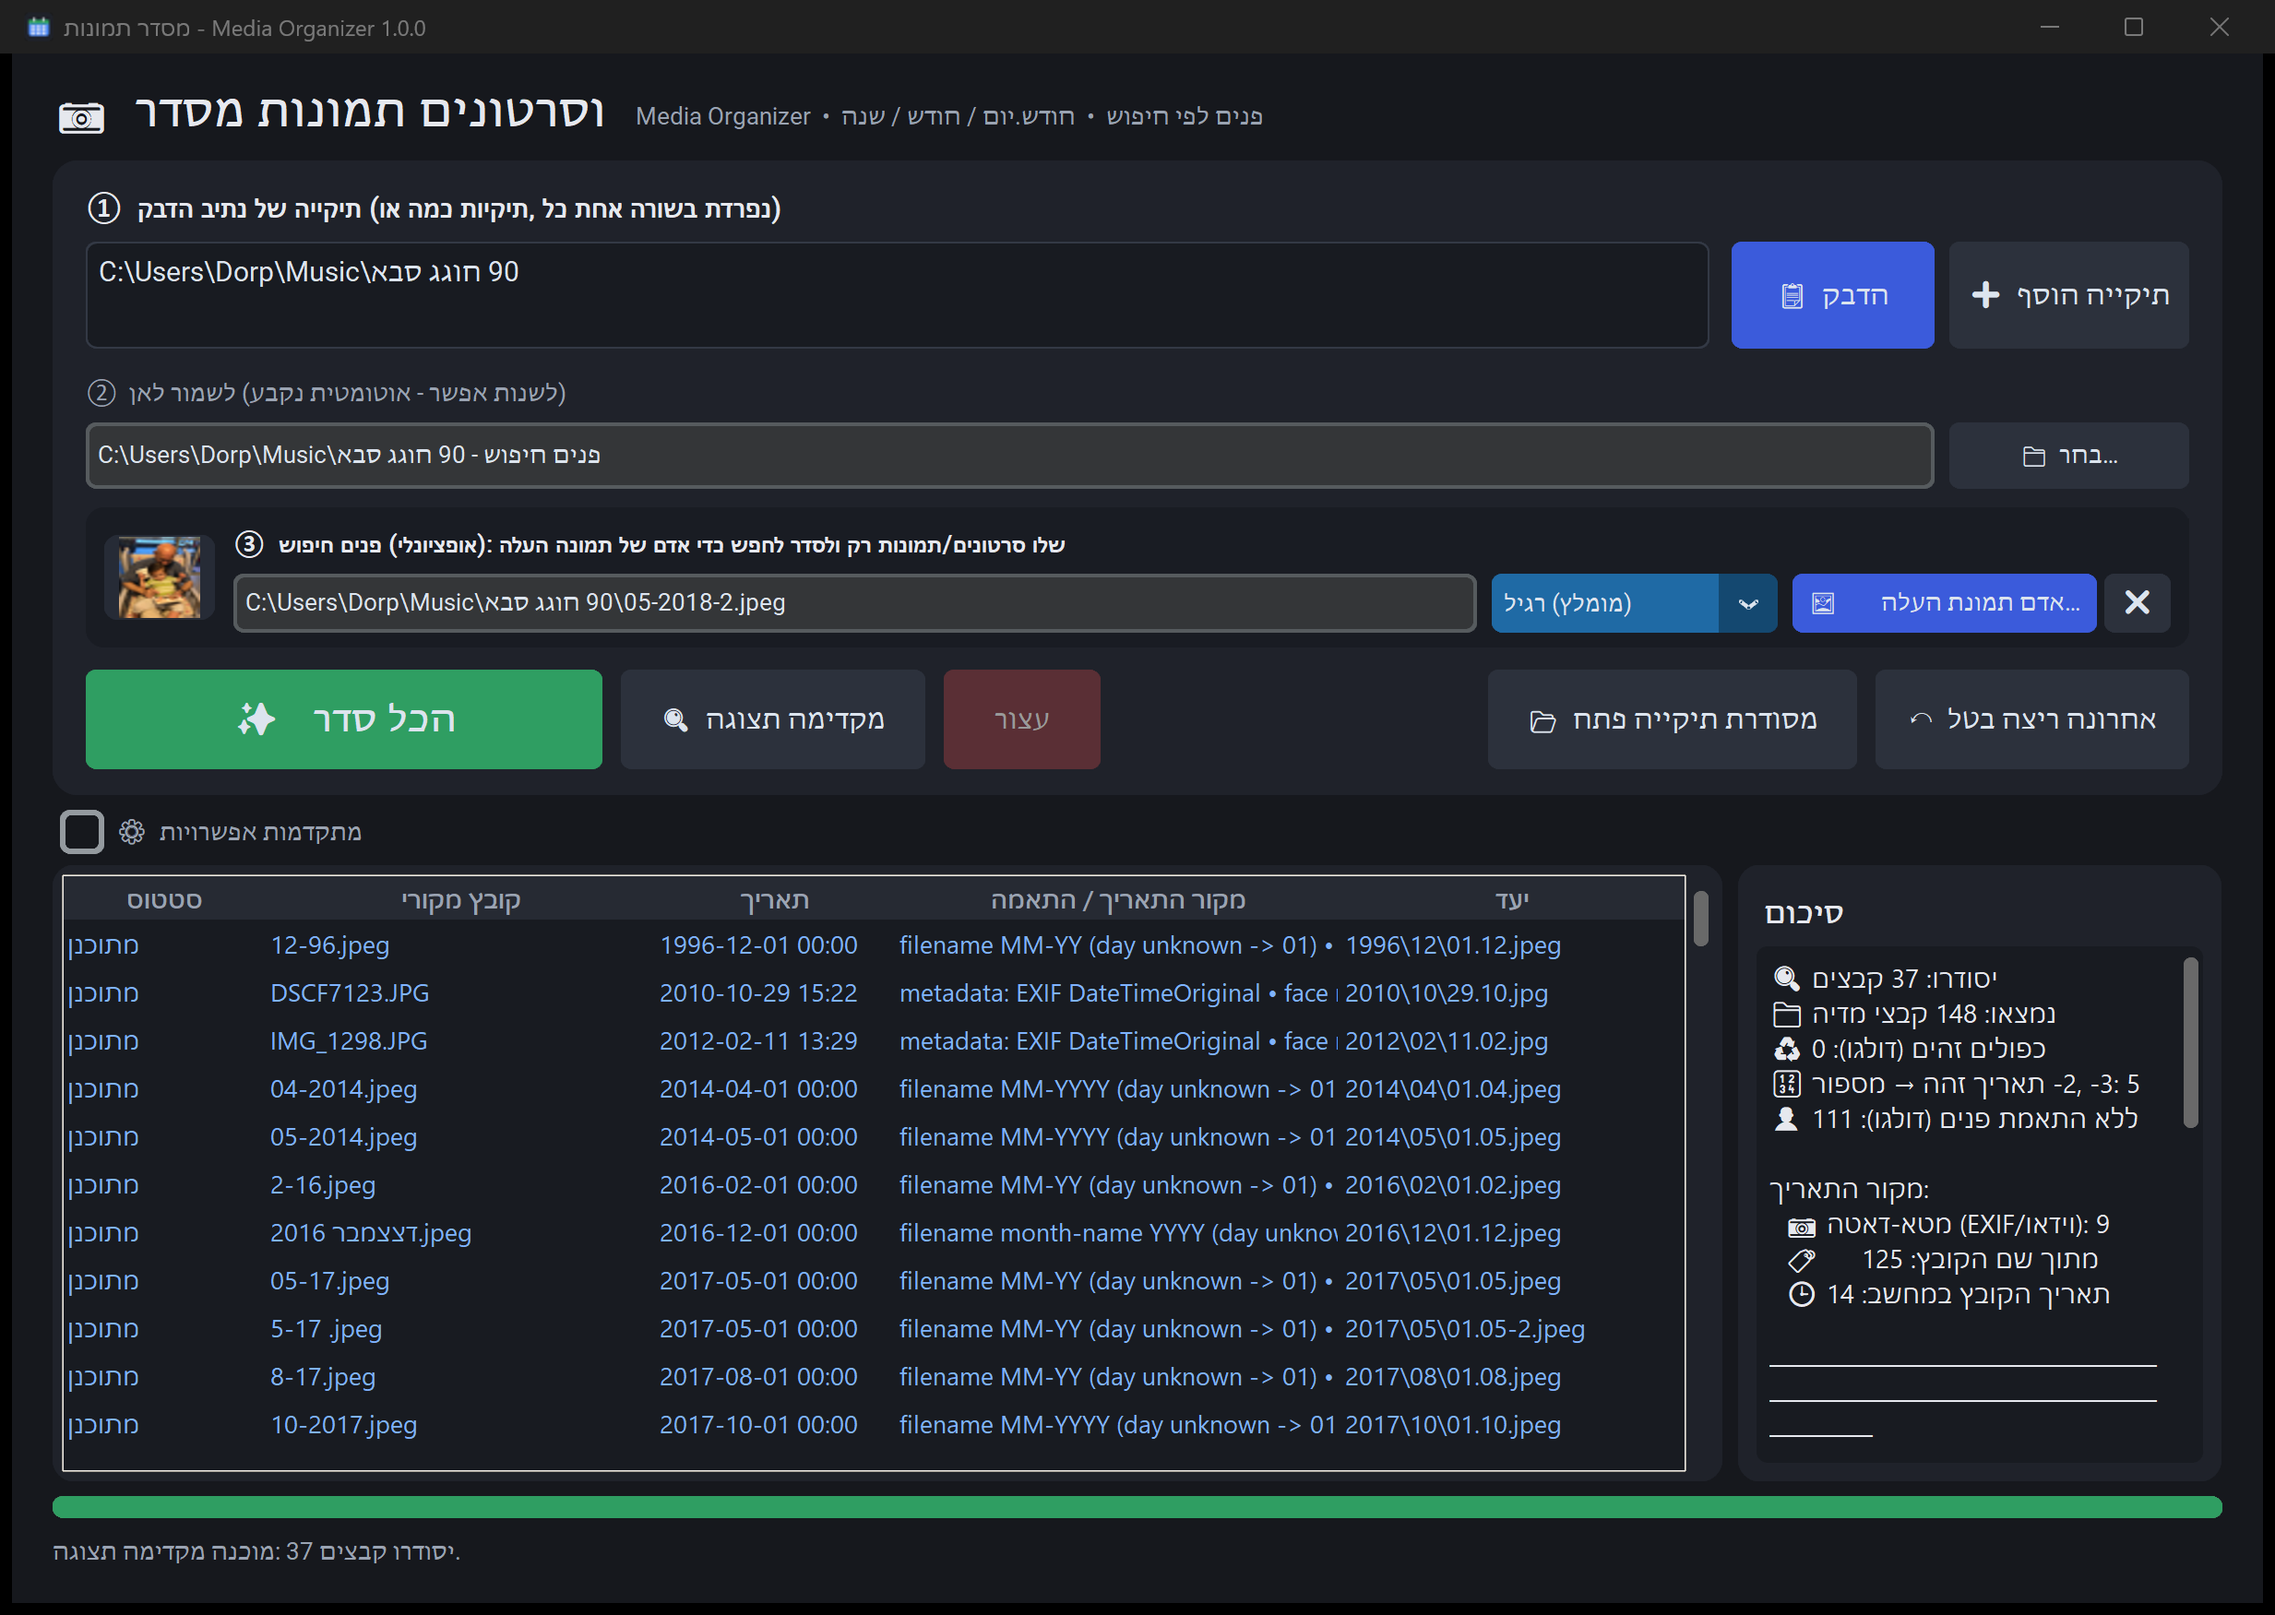
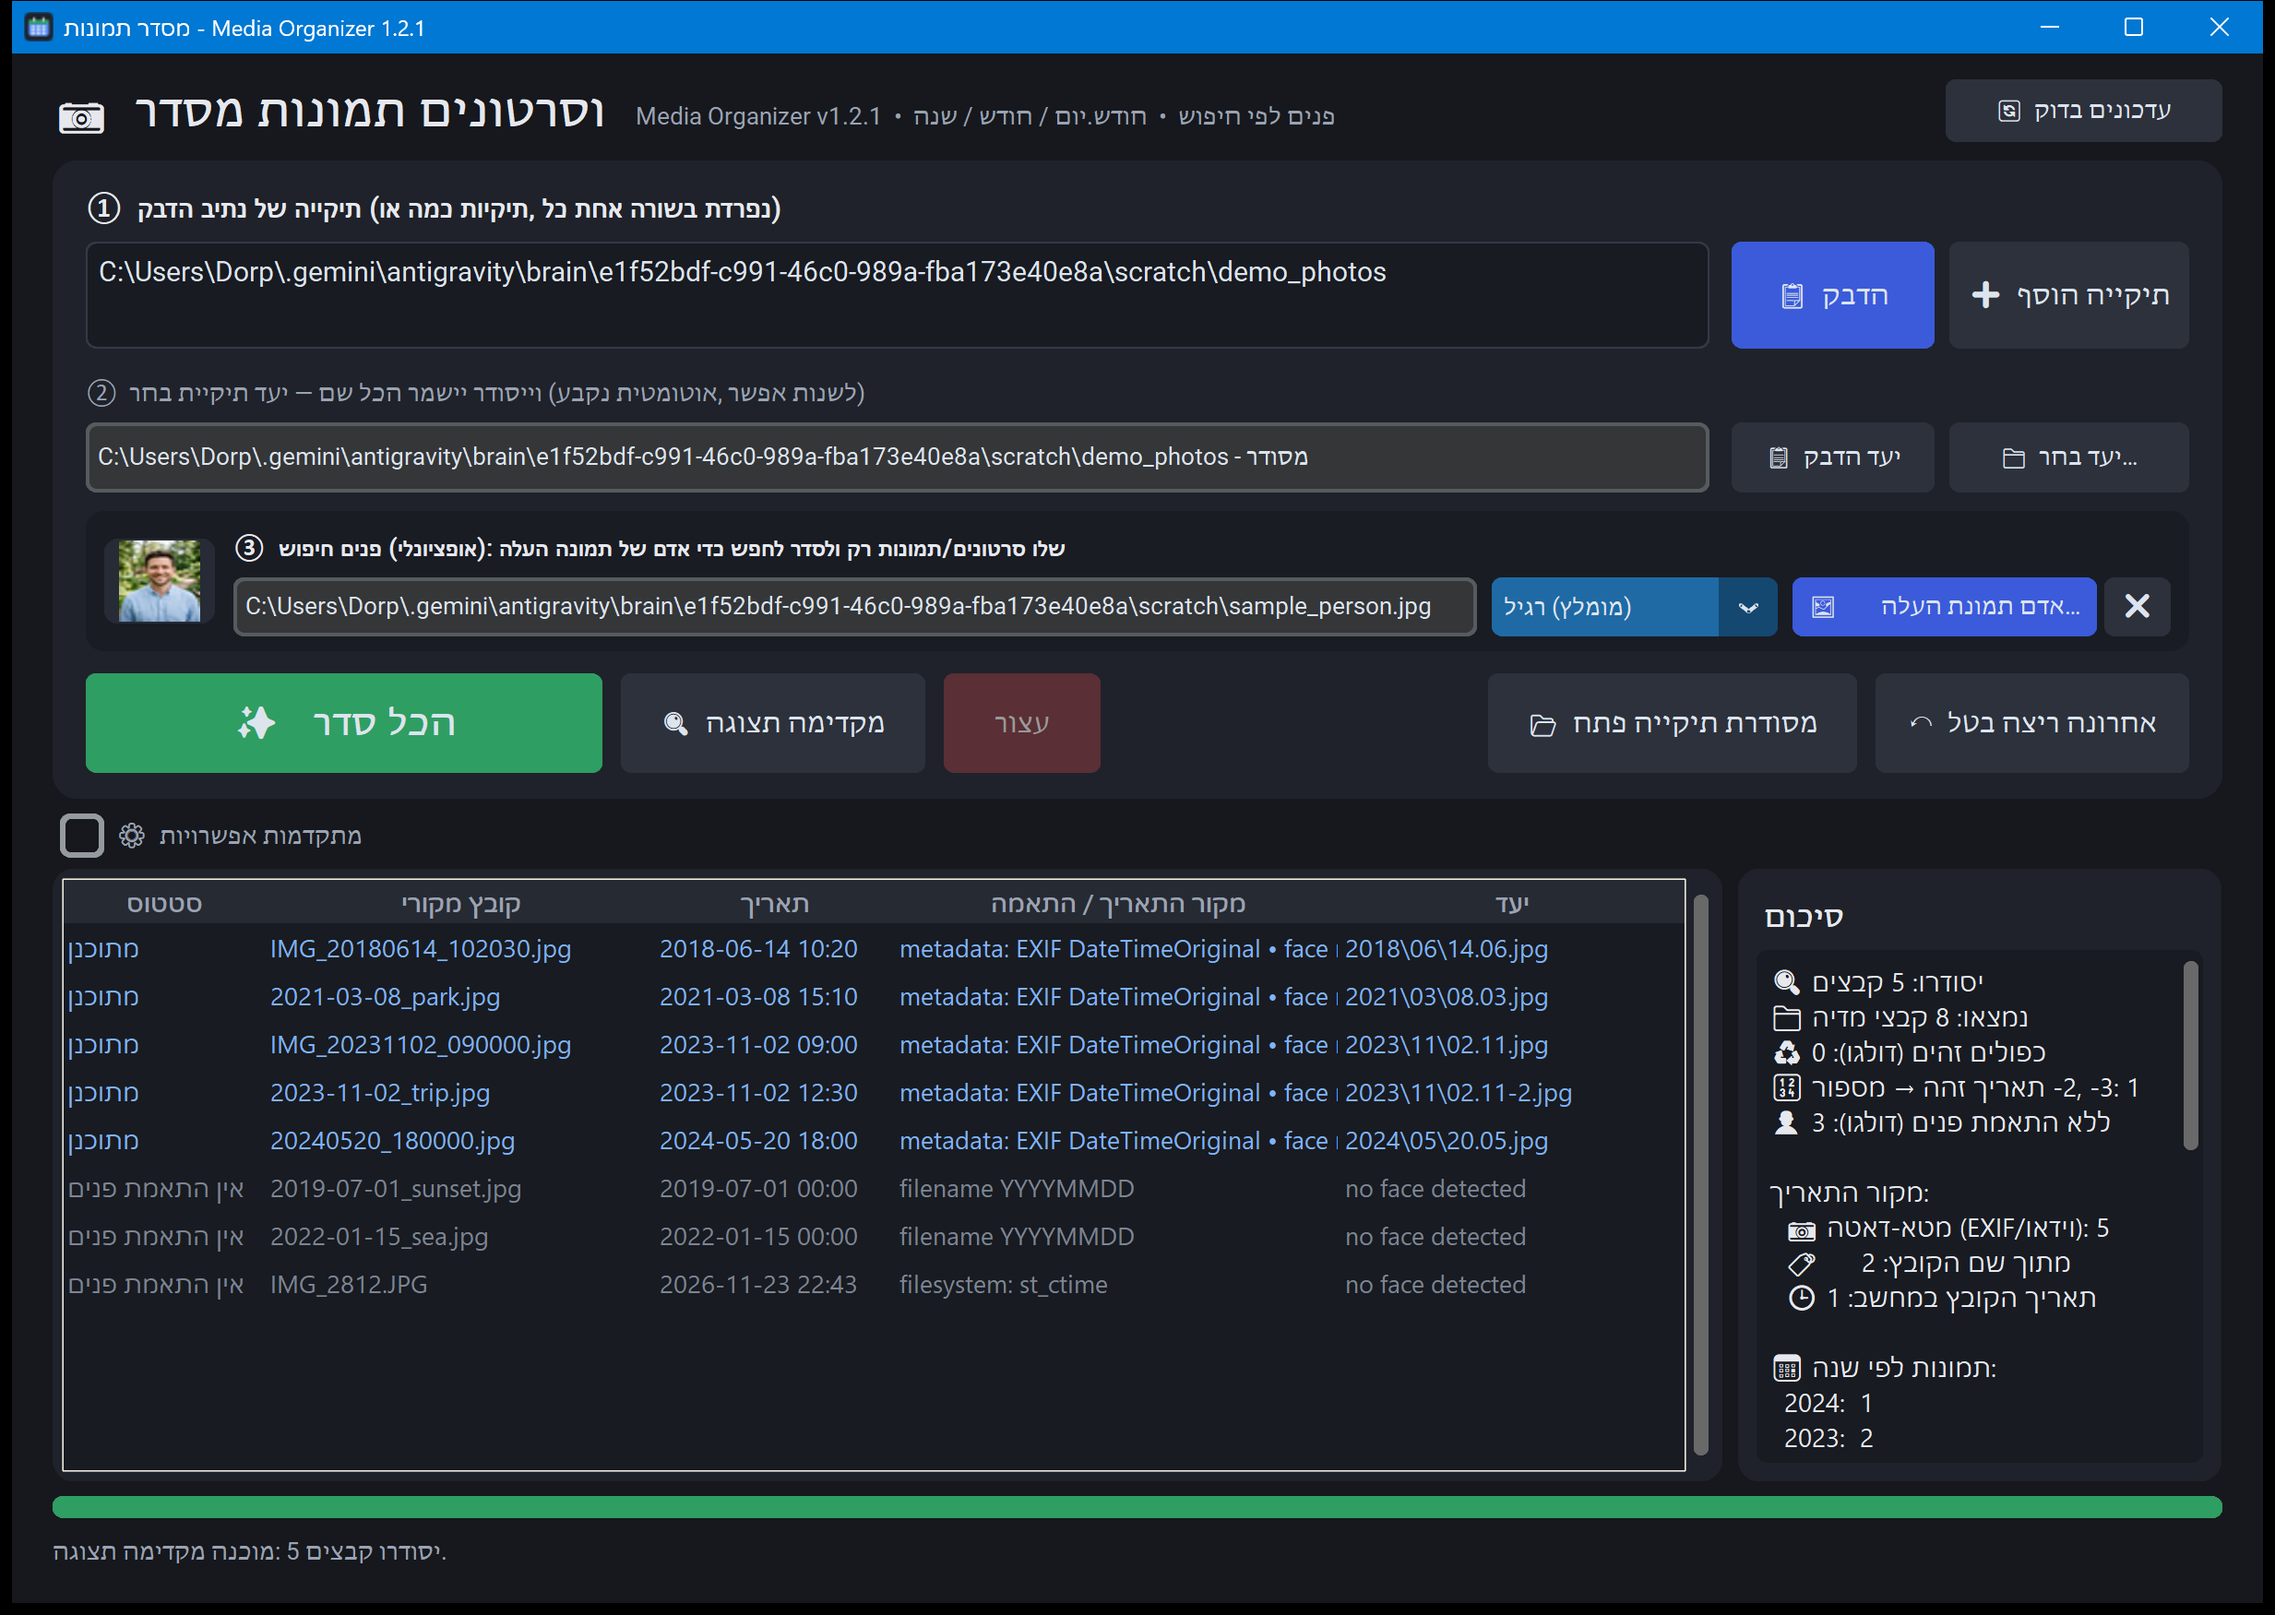
v1.2.1: Privacy-safe AI sample screenshot + per-year photo count in summary

diff --git a/media_organizer/gui.py b/media_organizer/gui.py
@@ -85,10 +85,12 @@ def hebrew_summary(plan: Plan, executed: bool) -> str:
         f"  📷 מטא-דאטה (EXIF/וידאו): {src.get(SRC_METADATA, 0)}",
         f"  🏷 מתוך שם הקובץ: {src.get(SRC_FILENAME, 0)}",
         f"  🕒 תאריך הקובץ במחשב: {src.get(SRC_FILESYSTEM, 0)}",
-        "",
-        "─" * 34,
-        summary_text(plan),
     ]
+    if s["years"]:
+        lines += ["", "📅 תמונות לפי שנה:"]
+        for y, cnt in sorted(s["years"].items(), reverse=True):
+            lines.append(f"  {y}:  {cnt}")
+    lines += ["", "─" * 34, summary_text(plan)]
     return "\n".join(lines)
 
 

diff --git a/media_organizer/__init__.py b/media_organizer/__init__.py
@@ -1,4 +1,4 @@
 """Media Organizer - sort photos & videos into YYYY/MM/DD.MM folders."""
 
-__version__ = "1.2.0"
+__version__ = "1.2.1"
 APP_NAME = "Media Organizer"
